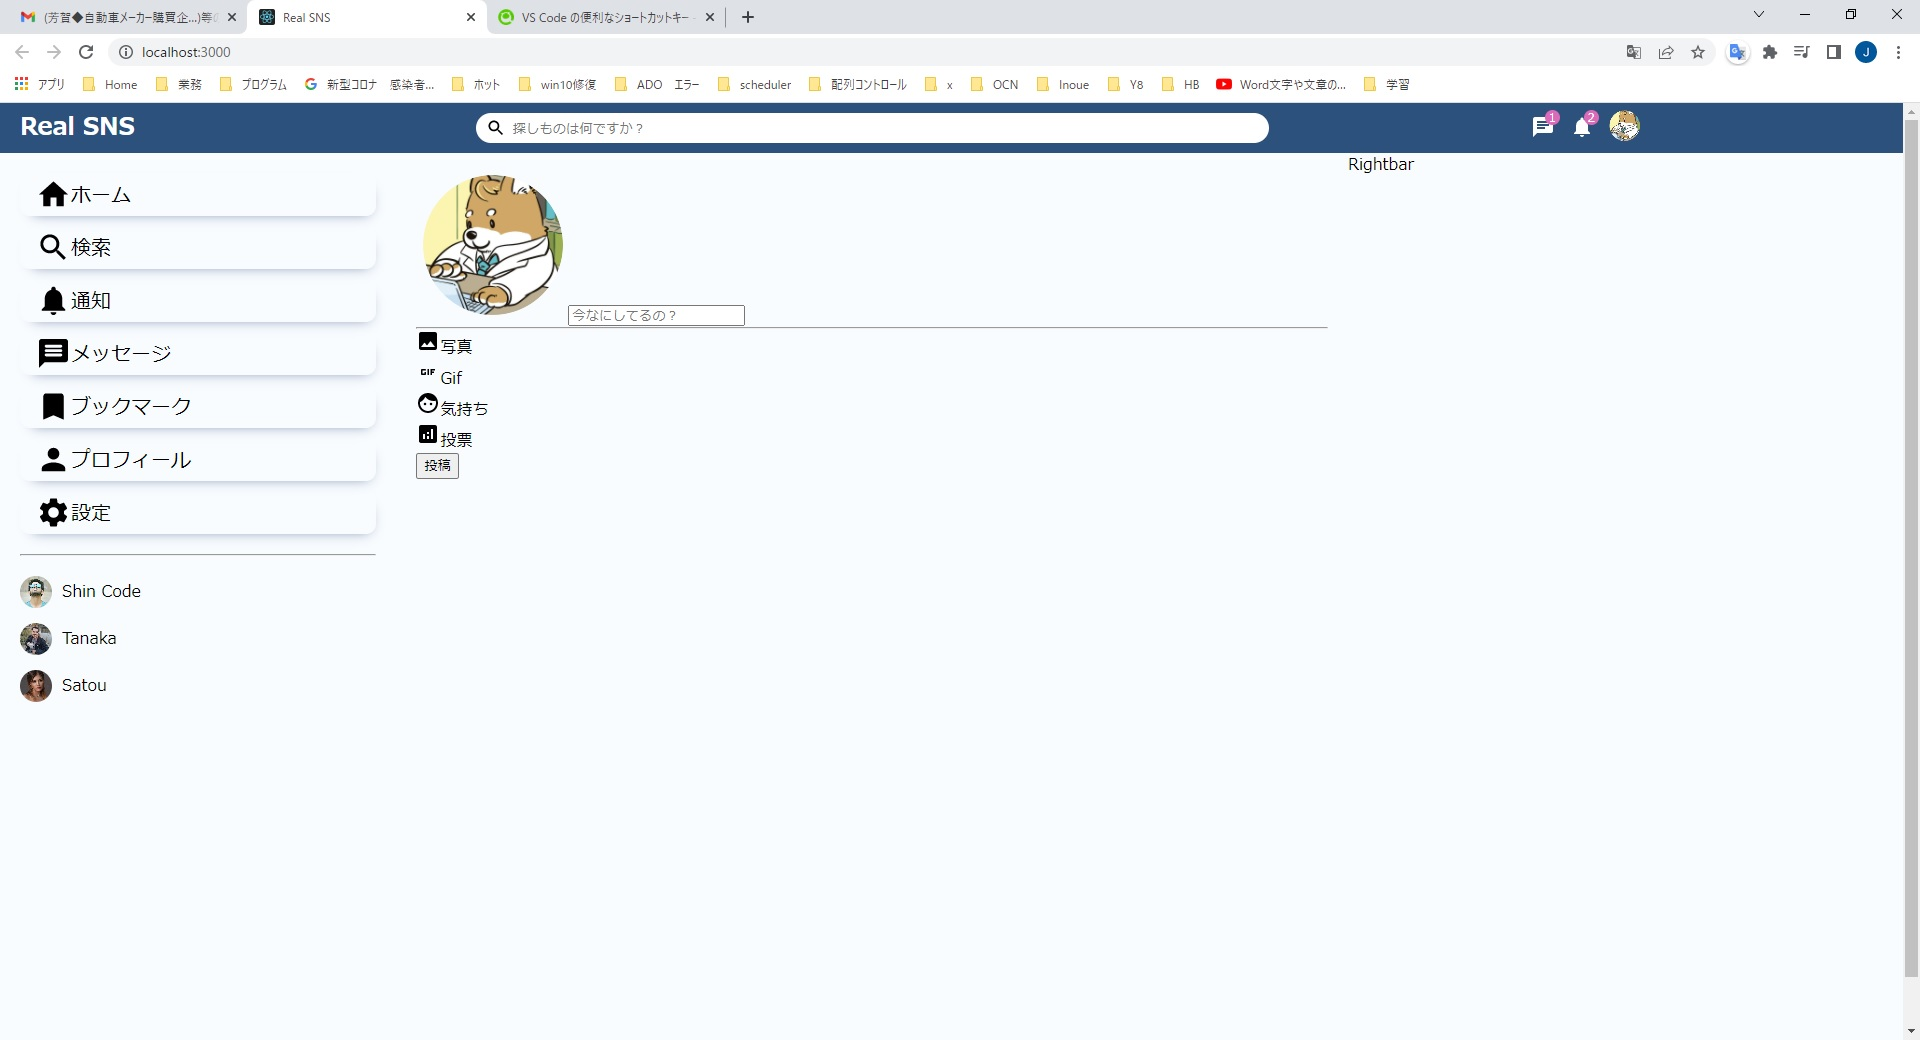
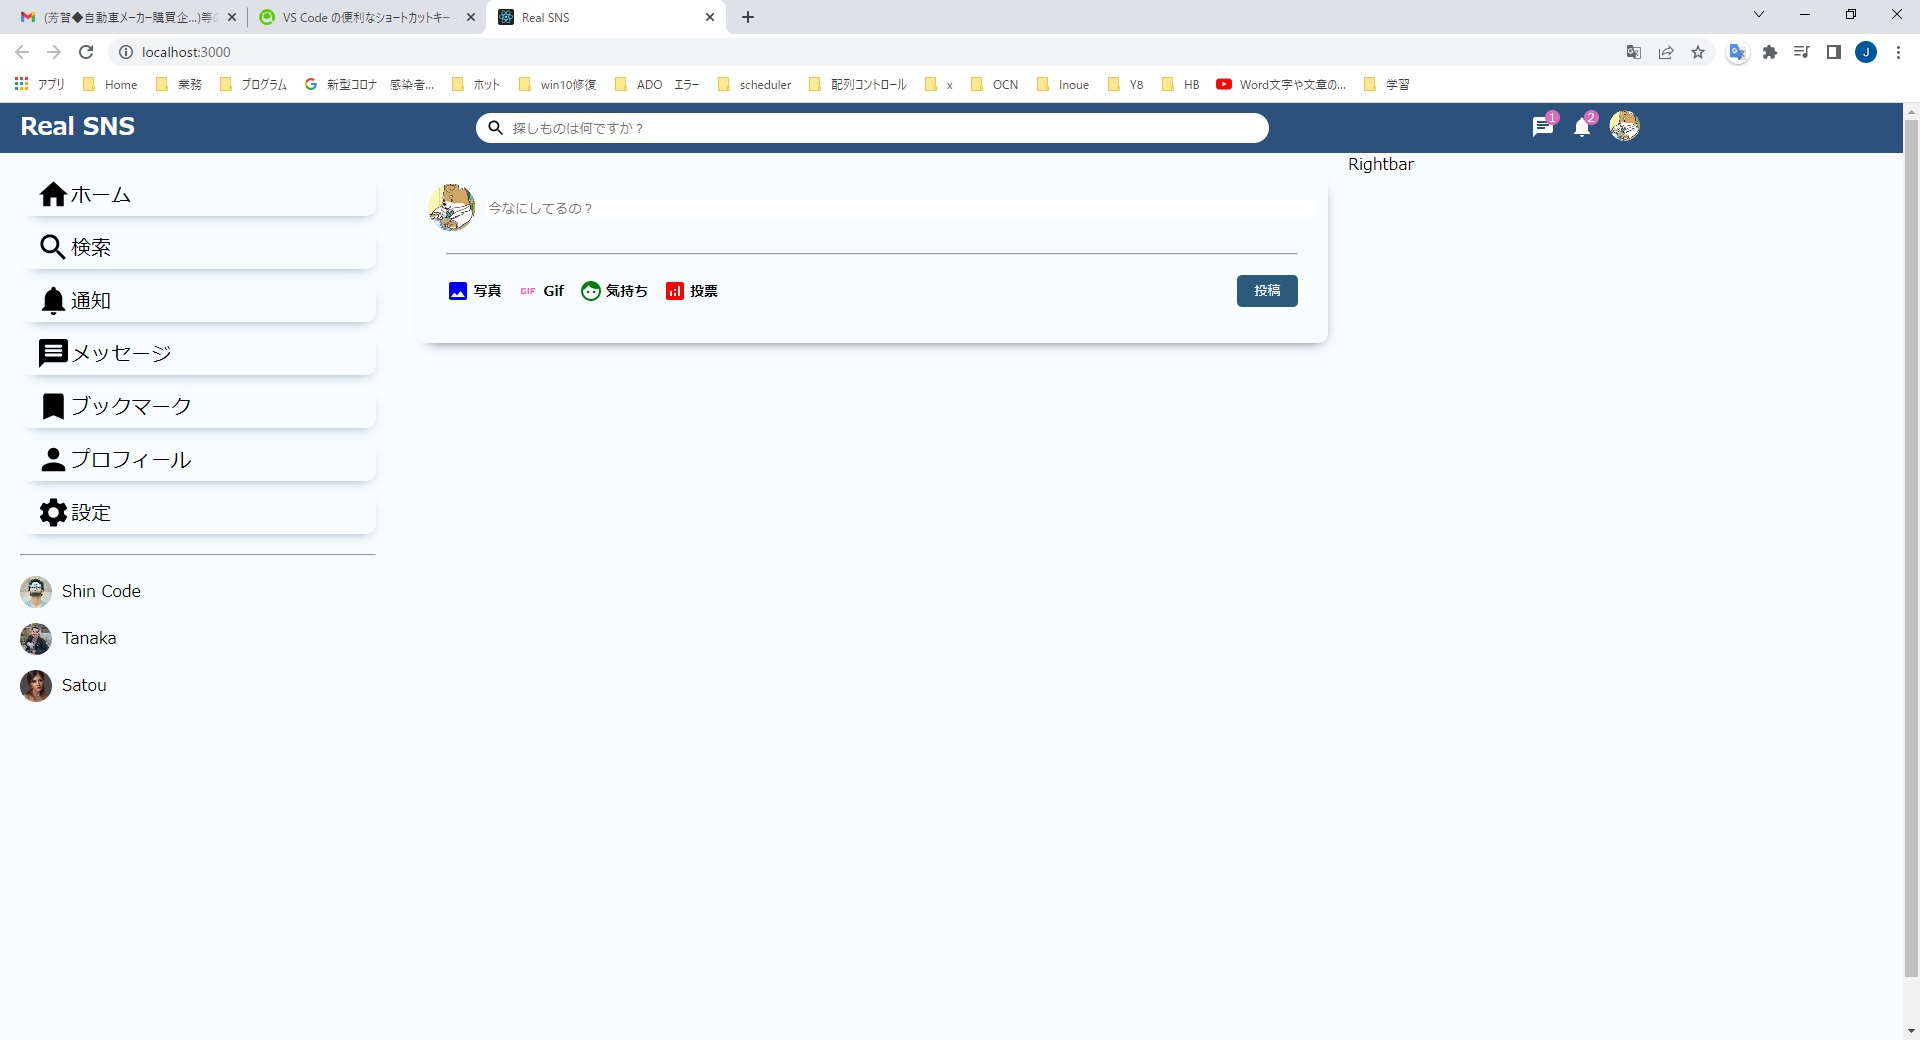
L51. タイムライン　CSS

Changed region(s): [[0.2188, 0.1538, 0.6875, 0.4615], [0.125, 0.0, 0.375, 0.0308]]

diff --git a/src/components/share/Share.jsx b/src/components/share/Share.jsx
@@ -5,6 +5,7 @@ import { Analytics, Face, Gif, Image } from '@mui/icons-material';
 export default function Share() {;
   return (
     <div className="share">
+      <div className="shareWrapper">
         <div className="shareTop">
             <img src="/assets/person/1.jpeg" alt="" className="shareProfileImg" />
             <input 
@@ -12,27 +13,30 @@ export default function Share() {;
               className="shareInput" 
               placeholder="今なにしてるの？" />
         </div>
-        <hr className="shareButtons" />
+        <hr className="shareHr" />
         <div className="shareButtons">
-            <div className="shareOption">
-              <Image className="shareIcon" />
-              <span className="shareOptionText">写真</span>
+            <div className="shareOptions">
+              <div className="shareOption">
+                <Image className="shareIcon" htmlColor="blue" />
+                <span className="shareOptionText">写真</span>
+              </div>
+              <div className="shareOption">
+                <Gif className="shareIcon" htmlColor="hotpink"/>
+                <span className="shareOptionText">Gif</span>
+              </div>
+              <div className="shareOption">
+                <Face className="shareIcon" htmlColor="green"/>
+                <span className="shareOptionText">気持ち</span>
+              </div>
+              <div className="shareOption">
+                <Analytics className="shareIcon" htmlColor="red"/>
+                <span className="shareOptionText">投票</span>
+              </div>
             </div>
-            <div className="shareOption">
-              <Gif className="shareIcon" />
-              <span className="shareOptionText">Gif</span>
-            </div>
-            <div className="shareOption">
-              <Face className="shareIcon" />
-              <span className="shareOptionText">気持ち</span>
-            </div>
-            <div className="shareOption">
-              <Analytics className="shareIcon" />
-              <span className="shareOptionText">投票</span>
-            </div>
+            <button className="shareButton">投稿</button>
         </div>
-        <button className="shareButton">投稿</button>
-        
+
+      </div>  
     </div>
-  )
+  );
 }

diff --git a/src/components/share/Share.css b/src/components/share/Share.css
@@ -1,0 +1,73 @@
+.share {
+    width: 100%;
+    height: 170px;
+    box-shadow: 3px 7px 13px -10px #1a2232;
+    border-radius: 10px;
+}
+
+.shareWrapper {
+    padding: 10px;
+}
+
+.shareTop {
+    display: flex;
+    align-items: center;
+}
+
+.shareProfileImg {
+    width: 50px;
+    height: 50px;
+    border-radius: 50%;
+    object-fit: cover;
+    margin-right: 10px;
+}
+
+.shareInput {
+    border: none;
+    width: 100%;
+}
+
+.shareInput:focus {
+    outline: none;
+}
+
+.shareHr {
+    margin: 20px;
+}
+
+.shareButtons {
+    display: flex;
+    align-items: center;
+    justify-content: space-between;
+}
+
+.shareOptions {
+    display: flex;
+    margin-left: 20px;
+}
+
+.shareOption {
+    display: flex;
+    align-items: center;
+    margin-right: 15px;
+    cursor: pointer;
+}
+
+.shareIcon {
+    margin-right: 3px;
+}
+
+.shareOptionText {
+    font-size: 14px;
+    font-weight: 550;
+}
+
+.shareButton {
+    border: none;
+    padding: 6px 17px;
+    background-color: #2c5a7c;
+    border-radius: 5px;
+    color : white;
+    cursor: pointer;
+    margin-right: 20px;
+}
